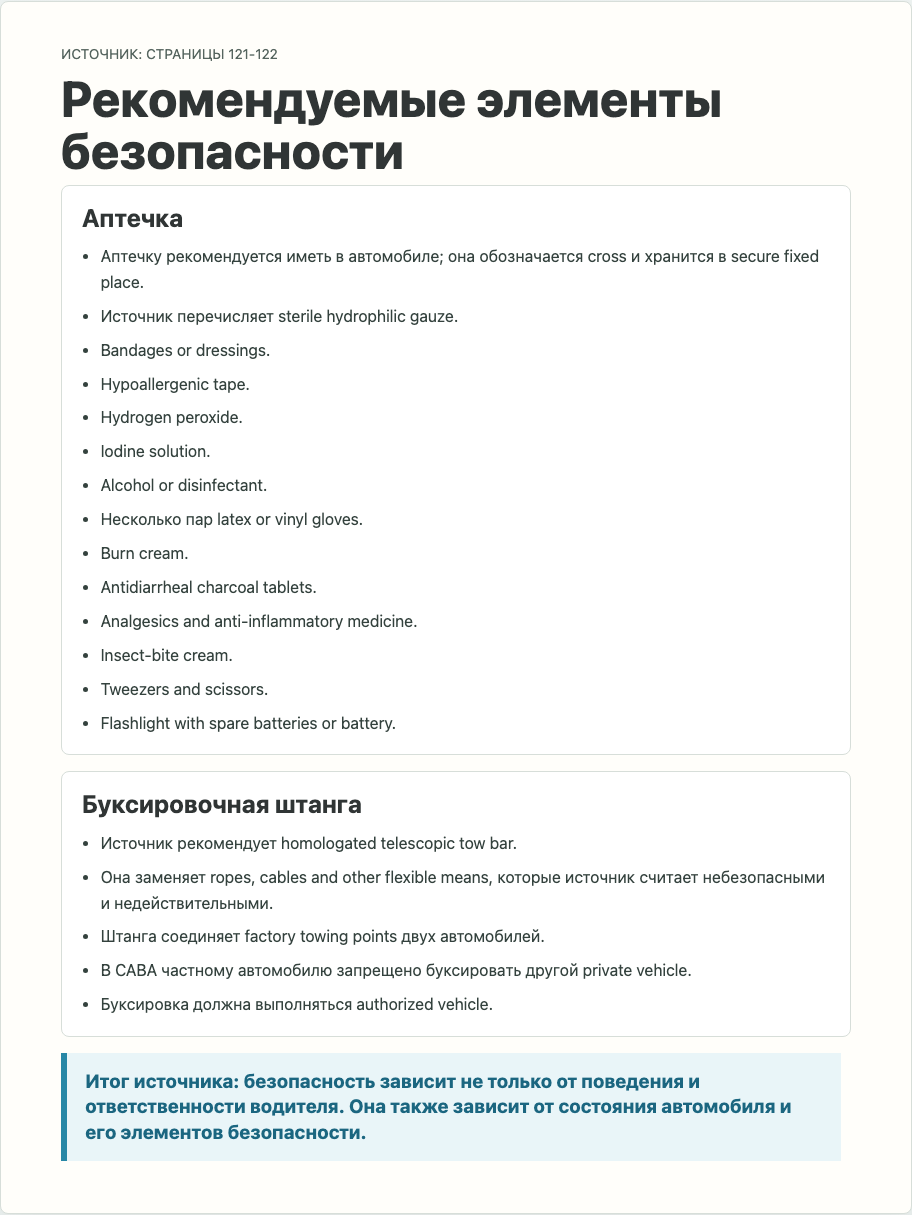
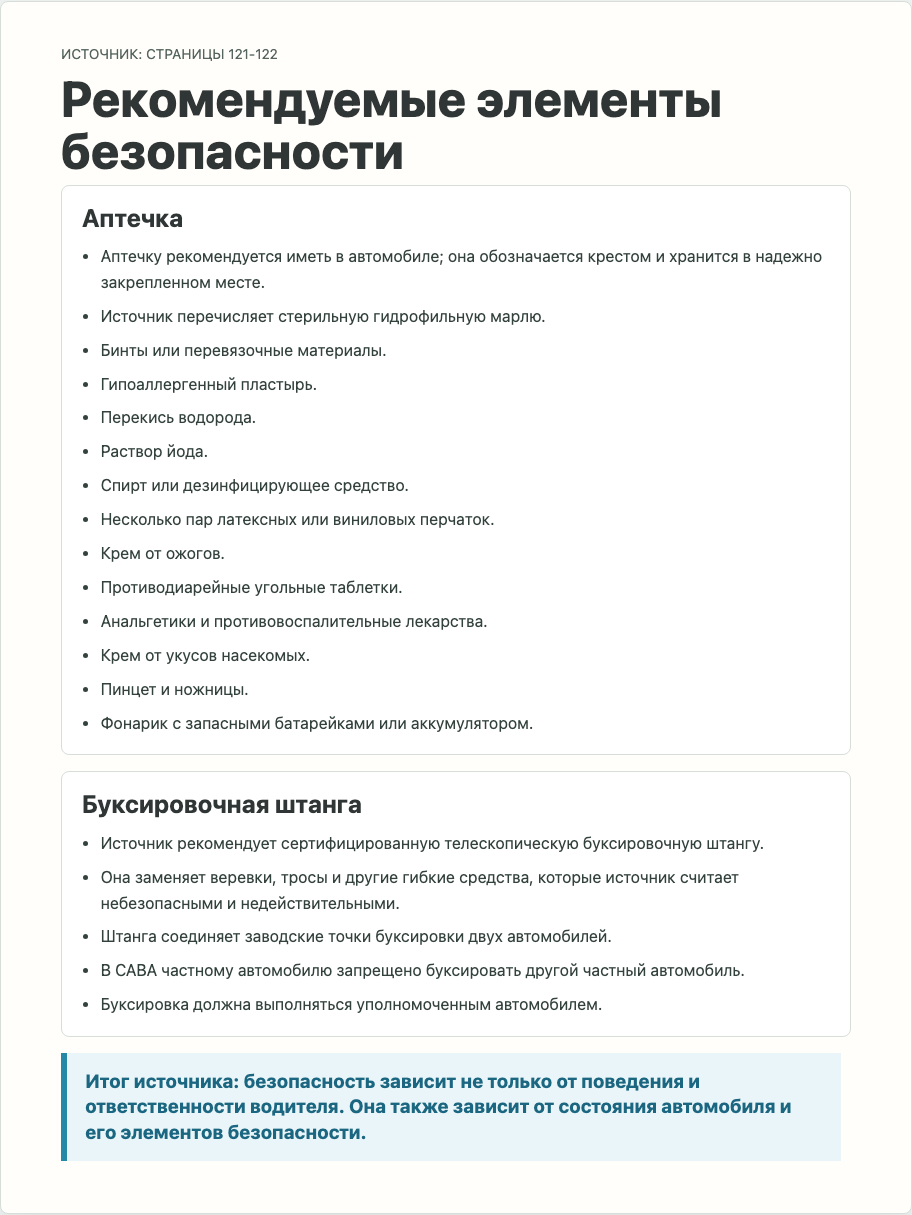
Fix Appendix I AI review findings

diff --git a/src/data/manual-sections/app1-safety-elements.ts b/src/data/manual-sections/app1-safety-elements.ts
@@ -287,7 +287,7 @@ export const app1SafetyElementsSection: ManualGuideSectionContent = {
         "Безопасная дистанция до подушки безопасности - минимум 25 cm.",
         "SRI - это детская удерживающая система: детские кресла и сертифицированные устройства.",
         "По правилу CABA, указанному в источнике, SRI обязателен с рождения до 12 лет, если рост меньше 1.50 m или вес меньше 36 kg; дети в этой группе не едут на переднем сиденье.",
-        "Если ребенок превышает возраст, рост или вес, он может занимать любое место с трехточечным ремнем; поясной двухточечный ремень источник прямо запрещает для такого случая.",
+        "Только если ребенок одновременно превышает возрастной, ростовой и весовой пороги, он может занимать любое место с трехточечным ремнем; поясной двухточечный ремень источник прямо запрещает для такого случая.",
         "Сноска источника уточняет: национальное правило аналогично, но действует до 10 лет."
       ]
     },

diff --git a/src/data/manual-sections/app1-recommended-safety-elements.ts b/src/data/manual-sections/app1-recommended-safety-elements.ts
@@ -5,7 +5,7 @@ export const app1RecommendedSafetyElementsSection: ManualGuideSectionContent = {
   sectionId: "app1-recommended-safety-elements",
   titleRu: "Рекомендуемые элементы безопасности",
   sourcePages: [121, 122],
-  sourceTitleEs: "Elementos de seguridad recomendados",
+  sourceTitleEs: "Elementos de seguridad recomendables",
   status: "implemented",
   styleTokenFamilies: [
     "manual-prose",

diff --git a/specs/031-manual-document-completion/tasks.md b/specs/031-manual-document-completion/tasks.md
@@ -198,6 +198,8 @@ For each chapter-equivalent content PR:
 - Appendix I content decision: Russian learner content preserves the source safety details for seat belts, seat posture, mirrors, airbags, child restraint systems, mandatory vehicle equipment, required fire extinguisher/triangles/vest/tow-bar details, and recommended safety equipment. The registry and tests guard the page `104` divider disposition, exact source ranges, Appendix I nav wiring, visual evidence metadata, source-boundary end at page `122`, and absence of Appendix II/III/IV bundling.
 - Review-fix decision, PR #191 Review Agent comments `3353239049`, `3353239050`, and `3353239052`: Appendix I learner-facing Russian text no longer contains untranslated English/Spanish scaffold fragments in safety elements, other required equipment, or recommended equipment. The fix localizes terms such as mirror checks, horn and windshield wording, seatbelt exceptions, pregnancy/seatbelt anatomy, headrest/airbag/SRI prose, cabin/passive-safety wording, bumpers/glass/pet transport, luggage/roof-load guidance, warning triangles, extinguisher operation/material classes, reflective vest, first-aid kit contents, and tow-bar recommendations. Official source Spanish remains only in `sourceTextEs`/source evidence, and official abbreviations or units such as `VTV`, `ABS`, `SRI`, `CABA`, `ABC`, `Isofix`, `Latch`, `kg`, `km`, `cm`, `mm`, and `dB` remain where needed.
 - Review-fix decision, PR #191 visual/source scope: no source images, transferred infographics, screenshots, validation crops, source-page images, photos, signs, road markings, registry visual metadata, or runtime visual assets were modified for the localization repair. The intentionally untracked duplicate page `119` safety-elements crop remains preserved and unstaged because it is unrelated to these review findings.
+- AI Review-fix decision, PR #191 automated comments `3353344745`, `3353281144`, and `3353238651`: the SRI regular-seat rule now preserves the source's conjunctive `edad, estatura y peso` restriction by requiring the age, height, and weight thresholds to all be exceeded before a child can use a regular three-point-belt seat; the Appendix I screenshot evidence was regenerated from the current localized DOM; and the recommended-safety source title now uses the exact official `Elementos de seguridad recomendables` wording in runtime data, manual navigation/source registry traceability, validation script source inventory, tests, and feature memory.
+- AI Review-fix visual/source scope, PR #191: only Appendix I desktop/mobile screenshot evidence PNGs were regenerated from the current DOM. No source crops, source page images, photos, traffic signs, road markings, source-as-is mirror photo, or transferred infographic asset bytes were modified; the intentionally untracked duplicate page `119` safety-elements crop remains preserved and unstaged.
 - Validation staleness notice, PR #190: Review Agent comment `3352682015` required a post-PR non-evidence content/test/process repair after current head `a21074d42a3c10466288856a55c4e7207b0c3386`; therefore any final validation or final-validation evidence for `a21074d42a3c10466288856a55c4e7207b0c3386` is stale for finalization. The next pushed localization repair head must become the new effective content head and receive fresh Architect then Analyst final validation before finalization.
 - Validation staleness notice, PR #190: automated Codex comments `3352716346` and `3352716350` required a post-review non-evidence visual asset/registry/test/process repair after current head `c6a040a21162f6dd9ebc0474e20993e5b8cb45c6`; therefore any final validation or final-validation evidence for `c6a040a21162f6dd9ebc0474e20993e5b8cb45c6` is stale for finalization. The pushed visual/boundary repair head must become the new effective content head and receive fresh Architect then Analyst final validation before finalization.
 - Validation staleness decision, PR #189 `2026-06-03T18:25:31Z`: Codex review comment `3350790136` required a post-validation non-evidence content/test/registry/process repair after effective content head `a8ecdac9daed66274ba51fb04ecbe47279aae2f6` and current head `9d249963ff245f32f67384a4bc17f1361d8bb891`. Prior Architect and Analyst final validation for `a8ecdac9daed66274ba51fb04ecbe47279aae2f6` is stale for finalization; a new effective content head plus fresh Architect final validation followed by Analyst final validation is required after this repair is committed, pushed, and required checks pass.
@@ -387,7 +389,7 @@ For each chapter-equivalent content PR:
 - Base and scope evidence: `git rev-parse HEAD` before editing returned `b63639a20e413f339266e2e91ce63c377377230a`, matching the Orchestrator-assigned verified `origin/main` base after merged PR #190. Initial active-worktree status showed branch `codex/031-appendix-i` with untracked Appendix I visual/evidence directories from the interrupted prior attempt and no local commits. Work stayed in `/Users/chap/devel/cabadrive-worktrees/031-appendix-i` on branch `codex/031-appendix-i`.
 - Source extraction evidence: Appendix I source pages were rendered/exported from `content/official-documents/originals/gcba-manual-vehiculo-4-ruedas-2023.pdf` at x5-equivalent source resolution; source page renders were `2976x4209`. Validation source crops under `content/validation/manual-guide/appendix-1-private-cars/`, `app1-safety-elements/`, `app1-other-required-safety-elements/`, and `app1-recommended-safety-elements/` were copied from those renders without resizing, translation, cleanup, retouching, or broad masking.
[3 lines of base64/hex data omitted]
 - Browser evidence: in-app browser spot check at `http://127.0.0.1:5191/#manual-section-app1-safety-elements` confirmed `sectionId: app1-safety-elements`, `hasHeadrest: true`, `hasSri: true`, and `hasMirror: true`.
 - Focused verification passed: `node scripts/manual-guide-source-fidelity.mjs` passed with `status: pass`, `mode: section-registry-with-complete-chapters-1-through-5-and-appendix-1`, `sectionsChecked: 30`, `pendingSections: 0`, `implementedSections: 30`, `skippedSourcePages: [21,43,56,57,89,98,104]`, `skippedDividerPages: [21,43,57,89,98,104]`, `sharedSourcePages: [55,93,94,95,99,100,101]`, and `strictVisualRulePolicy: 031-strict-source-fidelity`.
 - Focused verification passed: `node --test tests/content-manual-guide-chapters.test.mjs` passed with `80` tests and `0` failures. New assertions cover Appendix I hierarchy, page `104` divider disposition, source ranges through page `122`, exact three section ids, private-car safety detail retention, strict visual metadata, source boundaries, and no Appendix II/III/IV bundling.
@@ -398,6 +400,8 @@ For each chapter-equivalent content PR:
 - PR #191 review-fix focused verification, `2026-06-04T03:36:14Z`: addressed Review Agent P2 comments `3353239049`, `3353239050`, and `3353239052` by localizing mixed learner-facing English/Spanish fragments in `app1-safety-elements`, `app1-other-required-safety-elements`, and `app1-recommended-safety-elements`. First focused content-test rerun failed because the new negative guard still matched evidence-only `DOM text` wording; the evidence note was localized to `selectable page text`, and the final `node --test tests/content-manual-guide-chapters.test.mjs` run passed with `80` tests and `0` failures. New regression assertions require the Russian replacement wording and reject the old mixed fragments while preserving official Spanish in `sourceTextEs` and official abbreviations/units.
 - PR #191 review-fix focused verification, `2026-06-04T03:36:14Z`: `node scripts/manual-guide-source-fidelity.mjs` passed with `status: pass`, `sectionsChecked: 30`, `pendingSections: 0`, `implementedSections: 30`, and `strictVisualRulePolicy: 031-strict-source-fidelity`; `pnpm exec tsc --noEmit` passed. No visual asset bytes, source crops, screenshots, registry visual metadata, photos, signs, or road markings changed.
 - PR #191 review-fix broader verification, `2026-06-04T03:39:05Z`: `node scripts/check-feature-memory.mjs --worktree` passed; `git diff --check` passed; `pnpm run test` passed with `389` tests and `0` failures; `pnpm run preflight` passed, including feature-memory gate, repository baseline check, content validation, `389` unit tests, production build, and `78` Playwright tests with `0` failures. The existing Vite large chunk warning appeared during builds and remains non-fatal/pre-existing.
+- PR #191 AI Review-fix screenshot/DOM verification, `2026-06-04T04:18:13Z`: Vite dev server ran on `http://127.0.0.1:5174`; the first screenshot attempt timed out because lower lazy images had not loaded, then the successful Playwright capture explicitly scrolled and loaded all section images before screenshotting. Desktop screenshots are `912px` wide; mobile screenshots are `1029px` wide at device scale factor `3`. Live DOM smoke passed for the corrected SRI sentence and localized Appendix I text, and rejected stale mixed-language phrases in safety, other-required, and recommended sections.
+- PR #191 AI Review-fix focused and broader verification, `2026-06-04T04:20:58Z`: `node --test tests/content-manual-guide-chapters.test.mjs` passed with `80` tests and `0` failures; `node scripts/manual-guide-source-fidelity.mjs` passed with `sectionsChecked: 30`, `pendingSections: 0`, and `implementedSections: 30`; `pnpm exec tsc --noEmit` passed; `pnpm run validate:manual-4ruedas` passed with `200/200` pages and `56` topics; `node scripts/check-feature-memory.mjs --worktree` passed; `git diff --check` passed; and `pnpm run preflight` passed, including content validation, `389` unit tests, production build, and `78` Playwright tests with `0` failures. The existing Vite large chunk warning appeared during builds and remains non-fatal/pre-existing.
 - Protected visual confirmation: no Appendix I photo, traffic sign, road-marking visual, source crop, validation crop, or source page image was translated, relabeled, recolored, retouched, masked, inpainted, reconstructed, or redrawn. The only Appendix I Spanish cleanup is the headrest/SRI transferred-infographic glyph cleanup from source crops; the mirror photo remains source-as-is.
 - Final handoff evidence: `git diff --cached --check` is run before each commit, and the final pushed PR head is reported by Implementation Agent handoff.
 
@@ -751,7 +755,7 @@ For each chapter-equivalent content PR:
 
 ## Implementation Agent Feedback
 
-- Implementation Agent feedback for Appendix I scope after Review Agent P2 comments `3353239049`, `3353239050`, and `3353239052`: none requiring Architect disposition. Page `104` is divider-only; pages `105-122` are implemented as the assigned Appendix I content slice; no Appendix II/III/IV/front-matter or unrelated corrections are bundled. Learner-facing Appendix I text is localized to Russian except official abbreviations/units; source Spanish remains in `sourceTextEs`/evidence. Protected mirror photo remains source-as-is with Russian explanation outside the image; headrest and SRI infographics are source-crop-based transferred PNGs with glyph/antialias-level Spanish cleanup, no readable Spanish, preserved source structure/numerals/pictograms, no broad plate-like artifacts, and selectable Russian labels/explanation. Local untracked duplicate `content/validation/manual-guide/app1-safety-elements/page-119-safety-elements-source-crop.jpg` is preserved but not staged because it is outside the safety-elements page range. Architect disposition requested: no action needed for Appendix I PR content.
+- Implementation Agent feedback for Appendix I scope after Review Agent P2 comments `3353239049`, `3353239050`, and `3353239052`, and automated AI Review comments `3353344745`, `3353281144`, and `3353238651`: none requiring Architect disposition. Page `104` is divider-only; pages `105-122` are implemented as the assigned Appendix I content slice; no Appendix II/III/IV/front-matter or unrelated corrections are bundled. Learner-facing Appendix I text is localized to Russian except official abbreviations/units; the SRI regular-seat restriction now requires age, height, and weight thresholds to all be exceeded; source Spanish remains in `sourceTextEs`/evidence; recommended-safety traceability uses `Elementos de seguridad recomendables`. Protected mirror photo remains source-as-is with Russian explanation outside the image; headrest and SRI infographics are source-crop-based transferred PNGs with glyph/antialias-level Spanish cleanup, no readable Spanish, preserved source structure/numerals/pictograms, no broad plate-like artifacts, and selectable Russian labels/explanation. Local untracked duplicate `content/validation/manual-guide/app1-safety-elements/page-119-safety-elements-source-crop.jpg` is preserved but not staged because it is outside the safety-elements page range. Architect disposition requested: no action needed for Appendix I PR content.
 - Implementation Agent feedback for Chapter 5 scope after Review Agent comment `3352682015` and automated Codex comments `3352716346` / `3352716350`: none unresolved. Page `98` is divider-only; pages `99-103` are implemented as the assigned Chapter 5 content slice; page `99`, page `100`, and page `101` shared boundaries are recorded and tested; page `101` now coherently records that gender-violence support masks `11-25` continue after the preventive-driving heading at mask `09`; protected page `103` photo/quote remains source-as-is with Russian explanation outside the image; the page `100` mobility infographic is a source-crop-based transferred PNG with glyph-letter-level Spanish cleanup, `visibleSpanish=false`, source-crop provenance, cleaned `54%`/`50%`/`30%` row glyph fragments, and selectable Russian DOM labels over the cleaned infographic surface; the mixed-language preventive-driving title is localized to Russian and covered by regression tests. No Appendix/front-matter or unrelated content is bundled. Architect disposition: no action requested.
 - No unresolved Implementation Agent feedback. Architect disposition: disposed; no action needed for PR #190 at `46132199fb12a2590032b81d6c9b9ebc86efab44`.
 - Implementation Agent feedback for Chapter 4 scope after PR #189 review fixes through Review Agent comment `3352354749`: fully disposed. Architect disposition: disposed; no action needed for PR #189 at `4e819cfd80ebf09b4d3db560a6bc3b57766ef39a`. Page `89` remains divider-only; pages `90-97` are implemented as the assigned Chapter 4 content slice; page `93` alcohol/drugs-to-sleep/fatigue boundary, page `94` sleep/fatigue-to-stress boundary, and page `95` stress-to-distractions/direct-route boundary are recorded and tested. Visual/source-fidelity evidence keeps the page `90` drug-test photo and page `97` photo/quote as protected source-as-is x5 runtime crops with Russian learner explanation outside images, while the page `91` alcohol-limit and page `95` distraction-panel infographics are source-crop-based transferred PNGs with glyph-letter-level Spanish cleanup, `visibleSpanish=false`, source-crop provenance, selectable Russian labels over the cleaned infographic surfaces, and selectable Russian explanation/table content outside images. PR #189 review fixes for alcohol-limit rows, including the `acompañantes en motovehículos` legal scope, sleep/fatigue Russian wording, visual-fidelity thread `PRRT_kwDOSX65IM6G1aYu`, Codex review comments `3350790136`, `3351081820`, `3351219753`, `3351329538`, `3351663509`, `3352010484`, `3352233947`, and Review Agent comments `3352219633`, `3352327144`, and `3352354749` are implemented, locally verified, and included at the validated effective content head.

diff --git a/specs/031-manual-document-completion/spec.md b/specs/031-manual-document-completion/spec.md
@@ -110,7 +110,7 @@ Chapter and appendix child sections remain website section pages inside their ch
 | --- | --- | --- | ---: |
 | `app1-safety-elements` | `Elementos de seguridad` | `Элементы безопасности` | `105-118` |
 | `app1-other-required-safety-elements` | `Otros elementos de seguridad obligatorios` | `Другие обязательные элементы безопасности` | `119-120` |
-| `app1-recommended-safety-elements` | `Elementos de seguridad recomendados` | `Рекомендуемые элементы безопасности` | `121-122` |
+| `app1-recommended-safety-elements` | `Elementos de seguridad recomendables` | `Рекомендуемые элементы безопасности` | `121-122` |
 
 ### Appendix II: `123-151`
 
